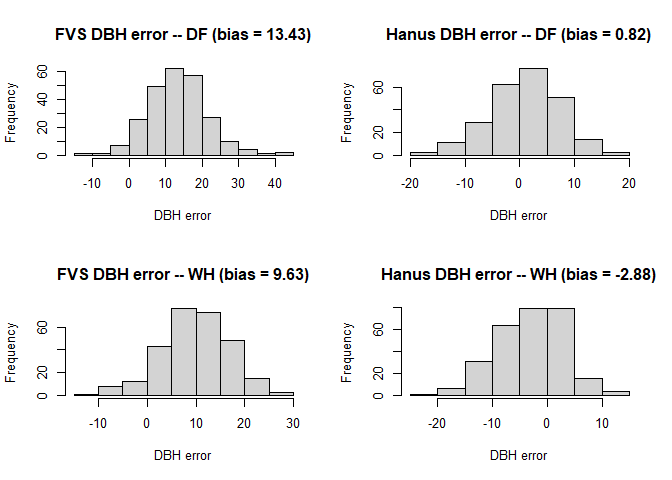
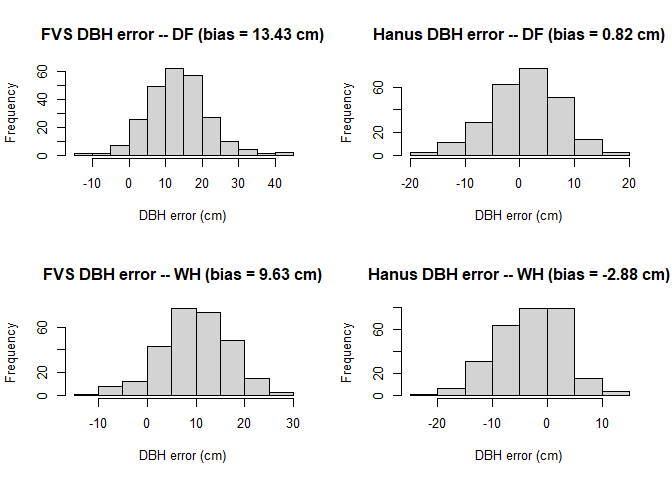
updating axis labels on figures

diff --git a/MiniReports/HeightDBH.md b/MiniReports/HeightDBH.md
@@ -165,17 +165,17 @@ and the titles give the average error (bias).
 { # force all lines to execute as one...prevents splitting the code before and after the graphs
 par(mfrow=c(2,2))
 hist(DF$fvsDBH - DF$DBH_cm
-     , main = paste0("FVS DBH error -- DF (bias = ", round(mean(DF$fvsDBH - DF$DBH_cm), 2), ")")
-     , xlab = "DBH error")
+     , main = paste0("FVS DBH error -- DF (bias = ", round(mean(DF$fvsDBH - DF$DBH_cm), 2), " cm)")
+     , xlab = "DBH error (cm)")
 hist(DF$hanusDBH - DF$DBH_cm
-     , main = paste0("Hanus DBH error -- DF (bias = ", round(mean(DF$hanusDBH - DF$DBH_cm), 2), ")")
-     , xlab = "DBH error")
+     , main = paste0("Hanus DBH error -- DF (bias = ", round(mean(DF$hanusDBH - DF$DBH_cm), 2), " cm)")
+     , xlab = "DBH error (cm)")
 hist(WH$fvsDBH - WH$DBH_cm
-     , main = paste0("FVS DBH error -- WH (bias = ", round(mean(WH$fvsDBH - WH$DBH_cm), 2), ")")
-     , xlab = "DBH error")
+     , main = paste0("FVS DBH error -- WH (bias = ", round(mean(WH$fvsDBH - WH$DBH_cm), 2), " cm)")
+     , xlab = "DBH error (cm)")
 hist(WH$hanusDBH - WH$DBH_cm
-     , main = paste0("Hanus DBH error -- WH (bias = ", round(mean(WH$hanusDBH - WH$DBH_cm), 2), ")")
-     , xlab = "DBH error")
+     , main = paste0("Hanus DBH error -- WH (bias = ", round(mean(WH$hanusDBH - WH$DBH_cm), 2), " cm)")
+     , xlab = "DBH error (cm)")
 par(mfrow = c(1, 1))
 }
 ```
@@ -282,11 +282,11 @@ error (bias).
 { # force all lines to execute as one...prevents splitting the code before and after the graphs
 par(mfrow=c(1,2))
 hist(DF$predDBH - DF$DBH_cm
-     , main = paste0("DBH error -- DF (bias = ", round(mean(DF$predDBH - DF$DBH_cm), 2), ")")
-     , xlab = "DBH error")
+     , main = paste0("DBH error -- DF (bias = ", round(mean(DF$predDBH - DF$DBH_cm), 2), " cm)")
+     , xlab = "DBH error (cm)")
 hist(WH$predDBH - WH$DBH_cm
-     , main = paste0("DBH error -- WH (bias = ", round(mean(WH$predDBH - WH$DBH_cm), 2), ")")
-     , xlab = "DBH error")
+     , main = paste0("DBH error -- WH (bias = ", round(mean(WH$predDBH - WH$DBH_cm), 2), " cm)")
+     , xlab = "DBH error (cm)")
 par(mfrow = c(1, 1))
 }
 ```
